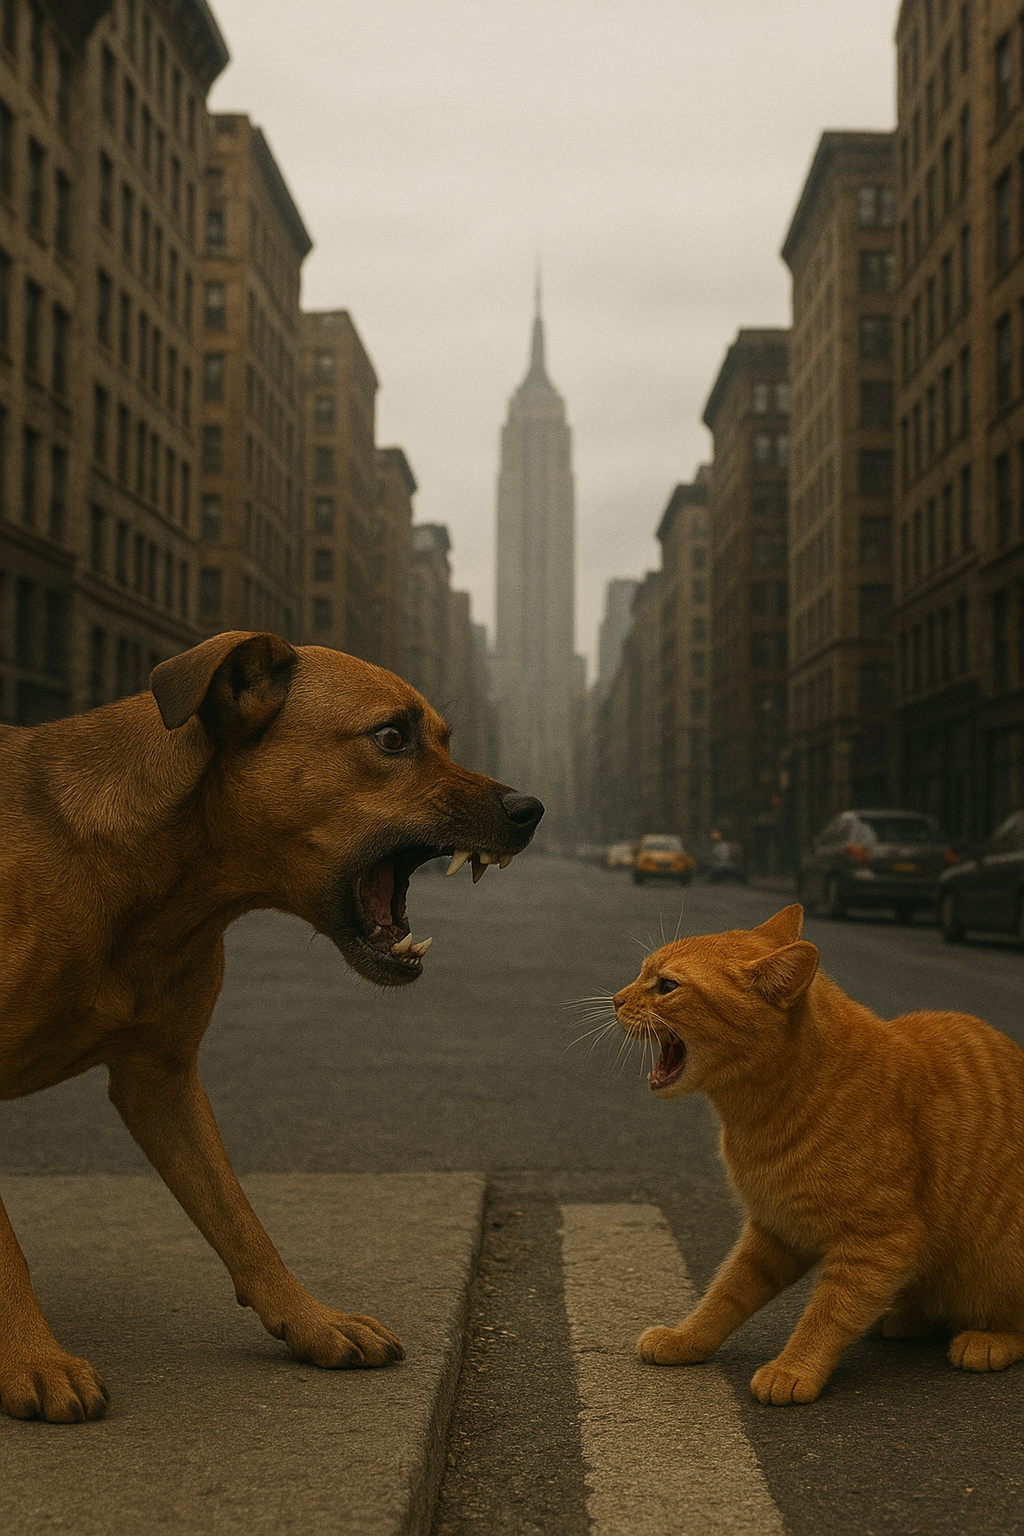
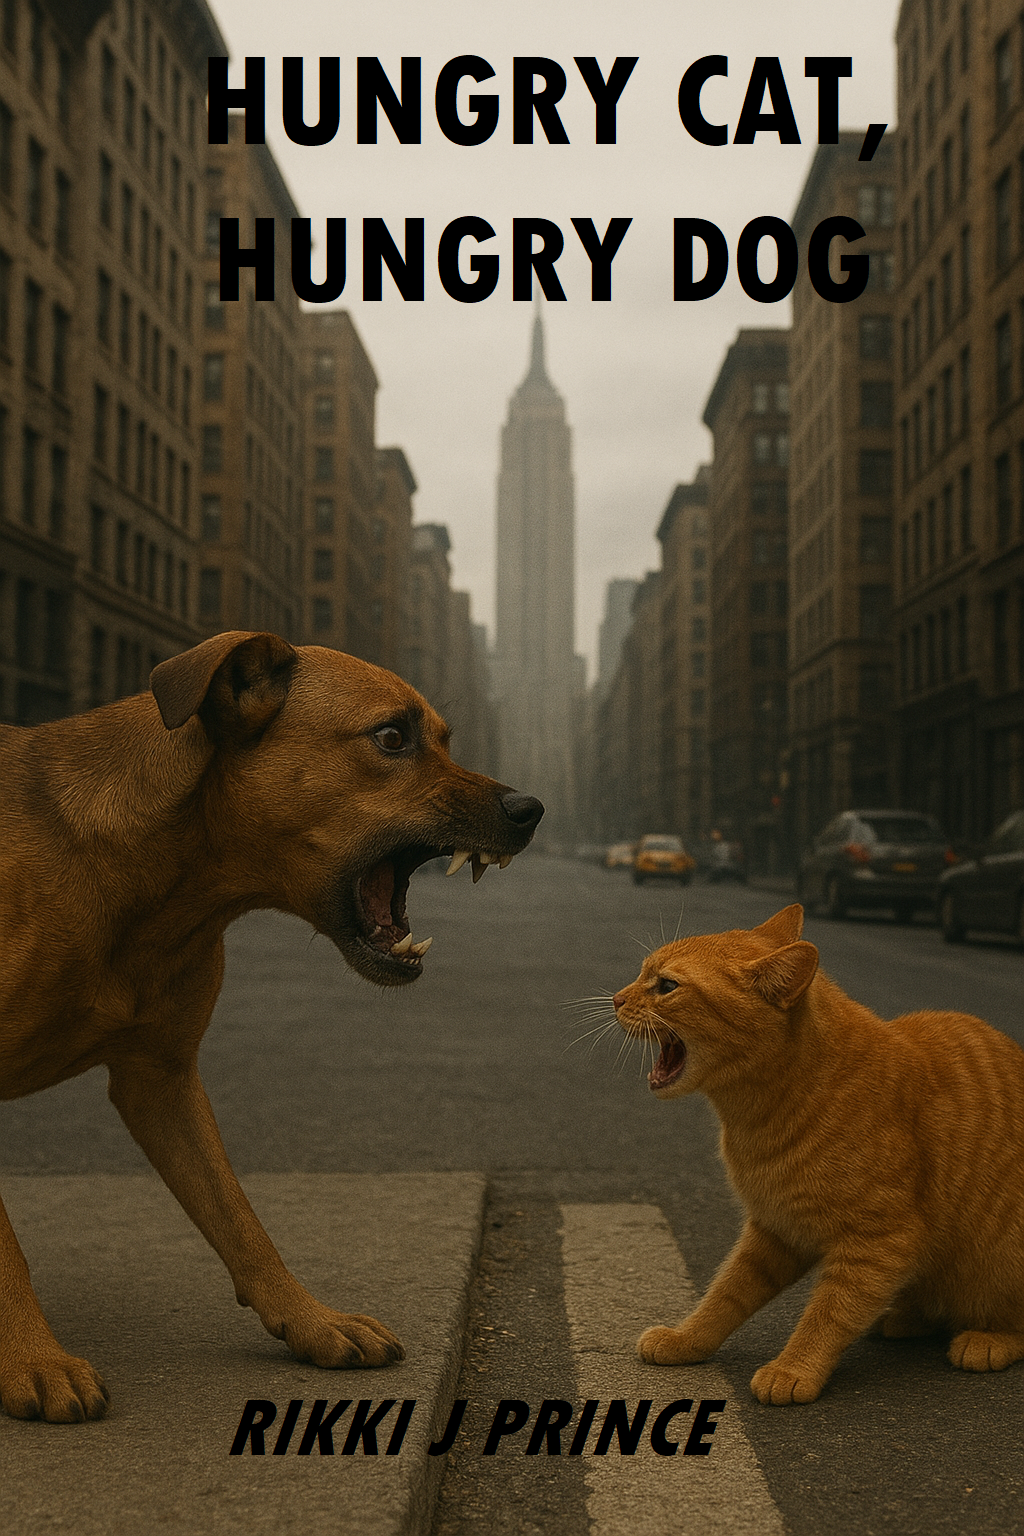
Add some images to experimental and others.

diff --git a/stories.md b/stories.md
@@ -20,9 +20,111 @@ books:
     isbn: "9798227244260"
     publication_date: "2024-08-21"
     url: "https://draft2digital.com/book/2167152"
----
 
-<!-- ✅ Everything below this line is HTML/Markdown, not YAML -->
+  - num: 2
+    title: "Nine More Days Immersed in Quantum Gravity (in Prague)"
+    cover: "/assets/images/stories/02 Quantum Gravity in Prague.jpg"
+    description: "Continuing her studies in Prague, Sarah dives deeper into quantum gravity and Czech culture."
+    isbn: "9798227271365"
+    publication_date: "2024-08-21"
+	url: https://draft2digital.com/book/2167132
+
+  - num: 3
+    title: "Nine Days Immersed in Chaos Theory (in Paris)"
+    cover: "/assets/images/stories/03 Chaos in Paris.jpg"
+    description: "In Paris, Sarah explores chaos theory amid art, philosophy, and mathematical turbulence."
+    isbn: "9798227798879"
+    publication_date: "2024-08-26"
+	url: https://draft2digital.com/book/2217447
+
+  - num: 4
+    title: "Nine More Days Immersed in Chaos Theory (in Florence)"
+    cover: "/assets/images/stories/04 Chaos in Florence.jpg"
+    description: "In Florence, Sarah uncovers the beauty and unpredictability of chaos theory between Renaissance masterpieces."
+    isbn: "9798227826954"
+    publication_date: "2024-08-26"
+	url: https://draft2digital.com/book/2217458
+
+  - num: 5
+    title: "Nine Days Immersed in Quantum Mechanics (in Copenhagen)"
+    cover: "/assets/images/stories/05 Quantum Mechanics in Copenhagen.jpg"
+    description: "At the birthplace of the Copenhagen Interpretation, Sarah wrestles with the mysteries of quantum mechanics."
+    isbn: "9798215861004"
+    publication_date: "2024-10-03"
+	url: https://draft2digital.com/book/2309959
+
+  - num: 6
+    title: "Nine Days Immersed in Special Relativity (in Bern)"
+    cover: "/assets/images/stories/06 Special Relativity in Bern.jpg"
+    description: "In Einstein’s city, Sarah studies special relativity and traces the roots of modern physics."
+    isbn: "9798227812407"
+    publication_date: "2024-10-03"
+	url: https://draft2digital.com/book/2310121
+
+  - num: 7
+    title: "Nine Days Immersed in General Relativity (in Berlin)"
+    cover: "/assets/images/stories/07 General Relativity in Berlin.jpg"
+    description: "Berlin becomes Sarah’s laboratory for exploring spacetime curvature and the structure of the universe."
+    isbn: "9798230320470"
+    publication_date: "2025-01-11"
+	url: https://draft2digital.com/book/2537375
+
+  - num: 8
+    title: "Nine Days Immersed in Relativity on the Grandest Scale (in Kyiv)"
+    cover: "/assets/images/stories/08 Relativity on the Grandest Scale in Kyiv.jpg"
+    description: "In Kyiv, Sarah contemplates cosmology and relativity against the backdrop of a changing nation."
+    isbn: "9798224491568"
+    publication_date: "2024-08-21"
+	url: https://draft2digital.com/book/2537438
+
+  - num: 9
+    title: "Nine Days Immersed in a Universe Made of Geometry (in Oxford)"
+    cover: "/assets/images/stories/09 Geometry in Oxford.jpg"
+    description: "Amid Oxford’s dreaming spires, Sarah explores the geometric nature of reality."
+    isbn: "9798230957102"
+    publication_date: "2025-01-24"
+	url: https://draft2digital.com/book/2636970
+
+  - num: 10
+    title: "Nine Days Immersed in a Universe Made of Information (in Princeton)"
+    cover: "/assets/images/stories/10 Information in Princeton.jpg"
+    description: "At Princeton, Sarah studies information theory and the informational foundations of physics."
+    isbn: "9798227843128"
+    publication_date: "2025-01-25"
+	url: https://draft2digital.com/book/2638361
+
+  - num: 11
+    title: "Nine Days Immersed in Private Investigation (in New York)"
+    cover: "/assets/images/stories/11 Private Investigation in New York.jpg"
+    description: "In New York, Sarah blends physics with detective work in a gritty academic puzzle."
+    isbn: "9798230834465"
+    publication_date: "2025-01-25"
+	url: https://draft2digital.com/book/2638809
+
+  - num: 12
+    title: "Nine Days Immersed in Forensic Science (in Mexico City)"
+    cover: "/assets/images/stories/12 Forensic Science in Mexico City.jpg"
+    description: "In vibrant Mexico City, Sarah applies scientific reasoning to forensic investigation."
+    isbn: "9798230199298"
+    publication_date: "2025-01-25"
+	url: https://draft2digital.com/book/2638837
+
+  - num: 13
+    title: "Nine Days Immersed in Time Travel (in Cambridge)"
+    cover: "/assets/images/stories/13 Time Travel in Cambridge.jpg"
+    description: "In Cambridge, Sarah explores paradoxes and philosophies of time while studying theoretical physics."
+    isbn: "9798230646815"
+    publication_date: "2025-02-01"
+	url: https://draft2digital.com/book/2643936
+
+  - num: 14
+    title: "Nine Days Immersed in the Nature of Time (in Kyoto)"
+    cover: "/assets/images/stories/14 The Nature of Time in Kyoto.png"
+    description: "In Kyoto’s temples and gardens, Sarah contemplates the nature of time itself."
+    isbn: "9798230119623"
+    publication_date: "2025-02-05"
+	url: https://draft2digital.com/book/2825965
+---
 
 <meta name="google-site-verification" content="9DOZpcg5hHHOQJJdTX8Qtb0kxCDqbQHfnVktEjjZdO4" />
 <meta name="description" content="Rikki J Prince — author of science-driven fiction, philosophical adventures, and speculative sci-fi." />

diff --git a/experimental.md b/experimental.md
@@ -83,9 +83,27 @@ A bold, original life philosophy for the 21st century—one that integrates ethi
 
 ### Coming in 2026
 
-- **Eternal Return** — Part 2 of Murder Undone: As Elias digs deeper, he’s caught in a terrifying cycle of disappearances, mirrored selves, and impossible events that defy time itself.
-- **A Café called Zuflucht** — Two lovers-turned-fugitives whose lives collide again in a Berlin café haunted by their past.
-- **Hungry Cat, Hungry Dog** — The city seen through the eyes of two strays.  
-- **What is Existence** — An essay on the meaning of existence.  
-- **The Blackout** — How a nationwide blackout affects a community in Valencia, Spain.  
-- **A Codex of Observations on Humanity** - Humanity seen from an alien perspective.
+- **A Café called Zuflucht**
+  <img src="/assets/images/experimental/A CAFÉ CALLED ZUFLUCHT.png" alt="A Café Called Zuflucht" style="max-width: 30%; height: auto; border-radius: 8px;">
+A Café Called Zuflucht is a fragmented, multi-layered narrative that traces the intertwined fates of Lukas, Sol, and Aisha as they navigate love, guilt, and surveillance across a volatile Europe. Moving from the hedonism of underground clubs to the quiet refuge of a Berlin café, the work becomes a meditation on memory, identity, and the search for redemption amid systems that never forget.
+
+- **Hungry Cat, Hungry Dog**
+  <img src="/assets/images/experimental/Hungry Cat, Hungry Dog 1.png" alt="Hungry Cat, Hungry Dog" style="max-width: 30%; height: auto; border-radius: 8px;">
+The city, seen through the eyes of two strays, reflects on our lost humanity.
+
+- **The Blackout**
+  <img src="/assets/images/experimental/The Blackout.png" alt="The Blackout" style="max-width: 30%; height: auto; border-radius: 8px;">
+How a nationwide blackout affects a community in Valencia, Spain.
+  
+- **A Codex of Observations on Humanity**
+  <img src="/assets/images/experimental/Codex.png" alt="A Codex of Observations on Humanity" style="max-width: 30%; height: auto; border-radius: 8px;">
+Humanity seen from an alien perspective.
+
+- **Eternal Return**
+<br>
+Part 2 of Murder Undone: As Elias digs deeper, he’s caught in a terrifying cycle of disappearances, mirrored selves, and impossible events that defy time itself.
+<br><br>
+- **What is Existence**
+<br>
+An essay on the meaning of existence.  
+

diff --git a/other.md b/other.md
@@ -97,35 +97,55 @@ permalink: /other/
 <h2>Ediciones en español</h2>
 <ul>
   <li>El Apagón</li>
-  <li>Entre gemidos — La ciencia del placer</li>
-  <li>Un perfume de lo prohibido</li>
+  <img src="/assets/images/other/El apagón.png" alt="El apagón" style="max-width: 30%; height: auto; border-radius: 8px;">
+  <br>
   <li>Una cafetería llamada Zuflucht</li>
+  <br> 
+  <img src="/assets/images/other/UNA CAFETERÍA LLAMADA ZUFLUCHT.png" alt="Una cafetería llamada Zuflucht" style="max-width: 30%; height: auto; border-radius: 8px;">
+  <br>
+  <li>Un perfume de lo prohibido</li>
+  <br>
   <li>Fundamentos de brujería</li>
+  <br>
   <li>La brujería y la magia</li>
+  <br>
   <li>Formación en brujería avanzada</li>
+  <br>
   <li>La Magia del Caos</li>
-  <li>El Universo In Extremis</li>
-  <li>El Universo Extra Machina</li>
+  <br> 
+  <li>Entre gemidos — La ciencia del placer</li>
+  <br>
+  <li>El Universo In Extremis - Coming in 2027</li>
+  <br>
+  <li>El Universo Extra Machina - Coming in 2028</li>
+  <br>
 </ul>
 
 <h2>Éditions en français</h2>
 <ul>
-  <li>La pièce entre deux battements de cœur</li>
-  <li>Un parfum interdit</li>
-  <li>Entre ombre et flammes</li>
   <li>Un café nommé Zuflucht</li>
+  <img src="/assets/images/experimental/Una cafetería llamada Zuflucht.png" alt="Una cafetería llamada Zuflucht" style="max-width: 30%; height: auto; border-radius: 8px;">
+  <br>
+  <li>La pièce entre deux battements de cœur</li>
+  <br>
+  <li>Un parfum interdit</li>
+  <br>
+  <li>Entre ombre et flammes</li>
 </ul>
 
 <h2>Edizione in italiano</h2>
 <ul>
   <li>Lo spazio tra due battiti del cuore</li>
+  <br>
   <li>Un profumo del proibito</li>
+  <br>
   <li>Un caffè chiamato Zuflucht</li>
 </ul>
 
 <h2>Edições em português</h2>
 <ul>
   <li>O espaço entre dois batimentos do coração</li>
+  <br>
   <li>Um café chamado Zuflucht</li>
 </ul>
 
